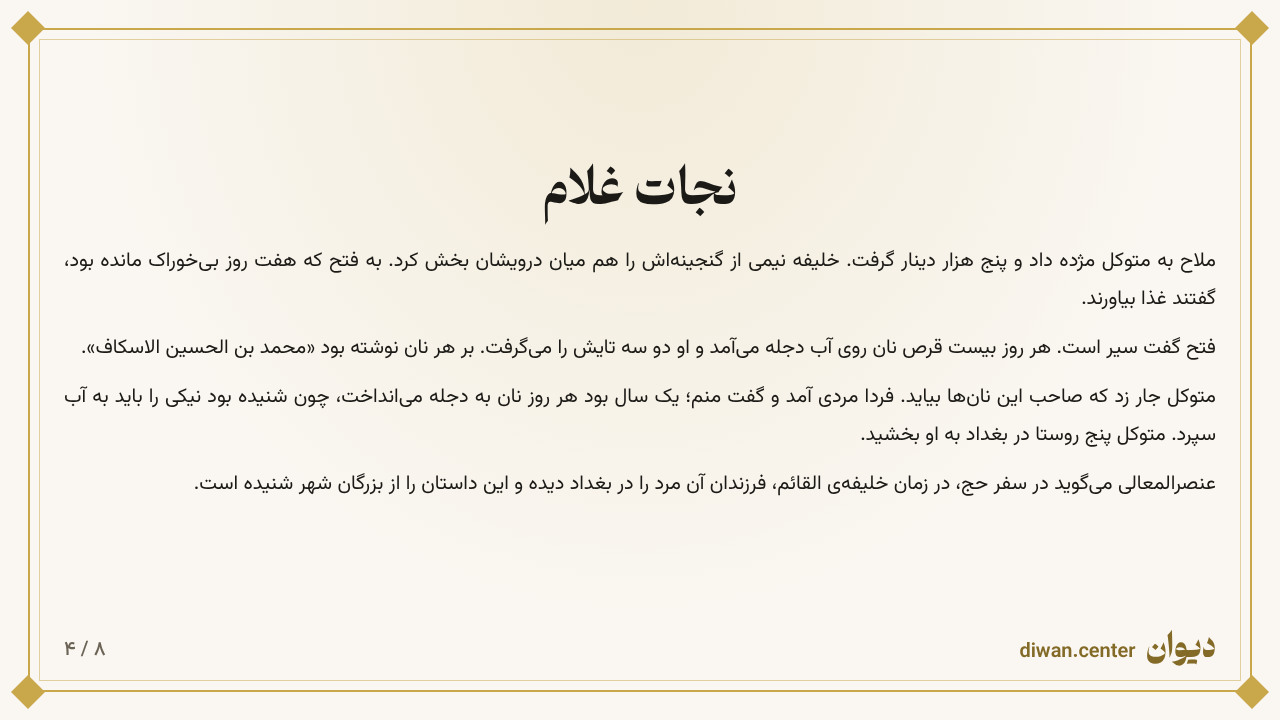
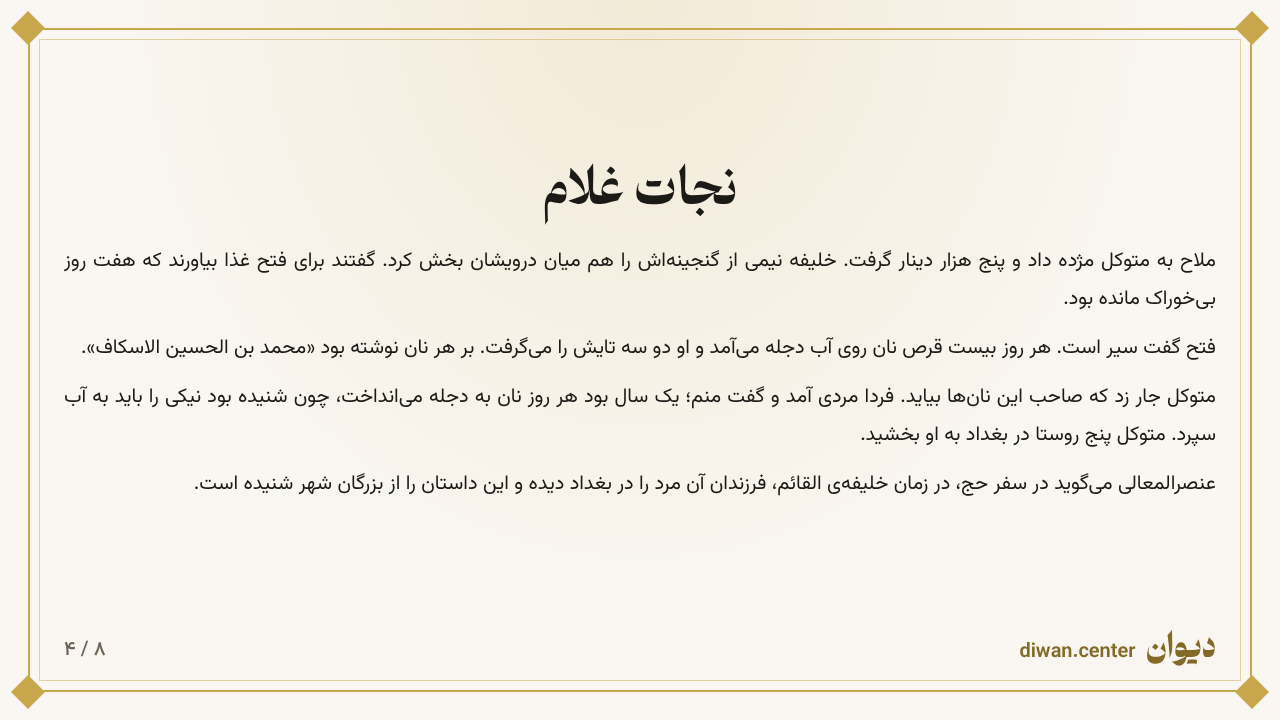
post21: fix slide 4 wording, schedule for 20:30
Claude-Session: https://claude.ai/code/session_01KbXFhZ5gVHvAJQxmARukFF

Changed region(s): [[0.0625, 0.3361, 0.9062, 0.3972], [0.8438, 0.3972, 0.9688, 0.4278]]

diff --git a/tools/dejleh/build.py b/tools/dejleh/build.py
@@ -23,7 +23,7 @@ S=[
    ('p','ملاحان هفت روز دجله را گشتند و همه ناامید شدند. سرانجام یکیشان به همان سوراخ رسید و فتح را زنده دید.'),
  ]),
  dict(k='blocks',title='نجات غلام',fb=34,jus=1,blocks=[
-   ('p','ملاح به متوکل مژده داد و پنج هزار دینار گرفت. خلیفه نیمی از گنجینهاش را هم میان درویشان بخش کرد. به فتح که هفت روز بیخوراک مانده بود، گفتند غذا بیاورند.'),
+   ('p','ملاح به متوکل مژده داد و پنج هزار دینار گرفت. خلیفه نیمی از گنجینهاش را هم میان درویشان بخش کرد. گفتند برای فتح غذا بیاورند که هفت روز بیخوراک مانده بود.'),
    ('p','فتح گفت سیر است. هر روز بیست قرص نان روی آب دجله میآمد و او دو سه تایش را میگرفت. بر هر نان نوشته بود «محمد بن الحسین الاسکاف».'),
    ('p','متوکل جار زد که صاحب این نانها بیاید. فردا مردی آمد و گفت منم؛ یک سال بود هر روز نان به دجله میانداخت، چون شنیده بود نیکی را باید به آب سپرد. متوکل پنج روستا در بغداد به او بخشید.'),
    ('p','عنصرالمعالی میگوید در سفر حج، در زمان خلیفهی القائم، فرزندان آن مرد را در بغداد دیده و این داستان را از بزرگان شهر شنیده است.'),
